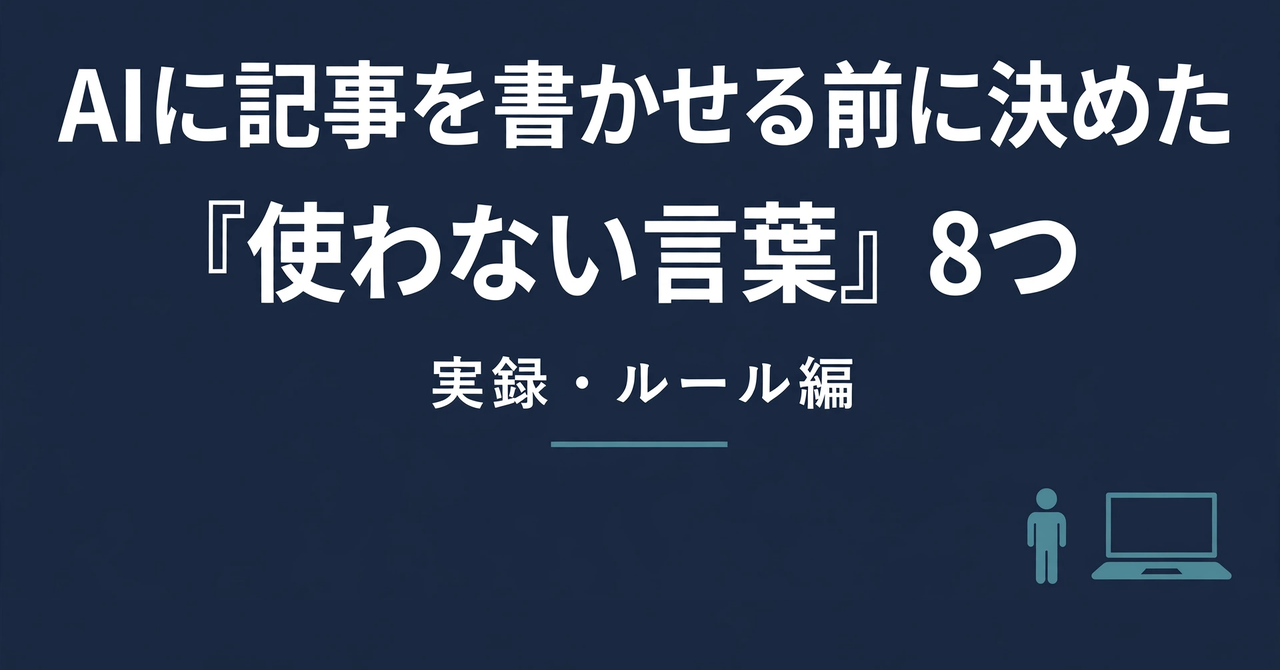
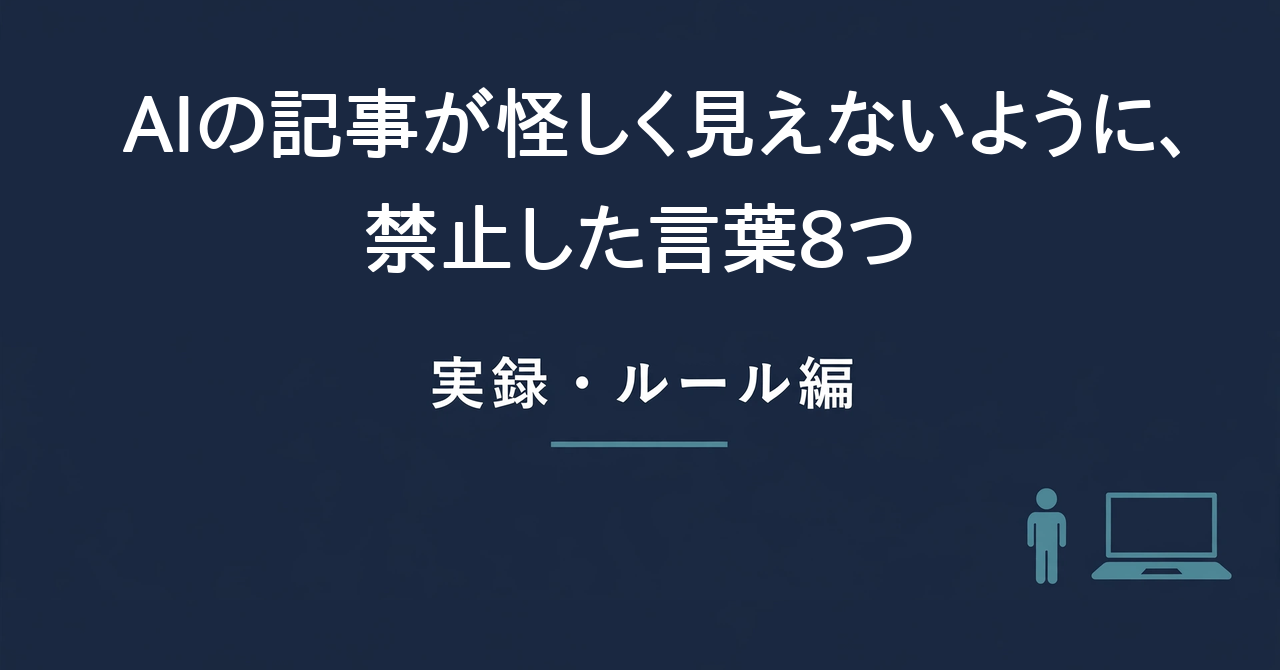
No.02の新タイトル用見出し画像を作成
Claude-Session: https://claude.ai/code/session_013AsTj4YgXtdFyZCq64SSRW

Changed region(s): [[0.0312, 0.0896, 0.9688, 0.2388], [0.1562, 0.2985, 0.8438, 0.4776]]

diff --git a/note-threads-ai-team/drafts/2026-11-13_article02_package.md b/note-threads-ai-team/drafts/2026-11-13_article02_package.md
@@ -48,7 +48,7 @@
 - 本人決定（2026-11-17）：B「AIの記事が怪しく見えないように、禁止した言葉8つ」（25字）
 - 変更前の数字（11/17 11:21集計）：表示188・開かれた4・スキ5・開かれた割合2.1%
 - 変更後に比べる：表示が増えた分に対して、開かれた数がどれだけ増えたか
-- 見出し画像もMuseで作り直す（旧画像の文字は「…『使わない言葉』8つ」）
+- 見出し画像：本人の依頼でClaudeが作成（2026-11-17）。旧画像の背景・副題・アイコンを残し、タイトル文字だけ差し替え。旧画像は images/article02_header_old_8tsu.png
 - 本文は変更なし（本文中の言い方は「使わない言葉」のまま）
 
 ### Museに送る指示文
